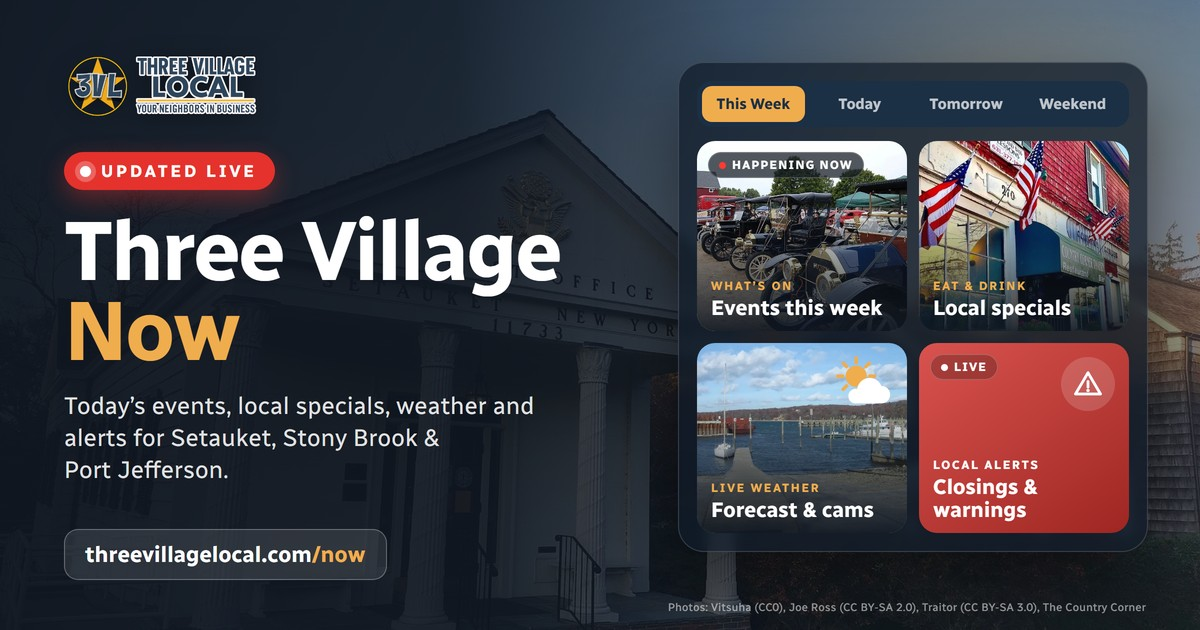
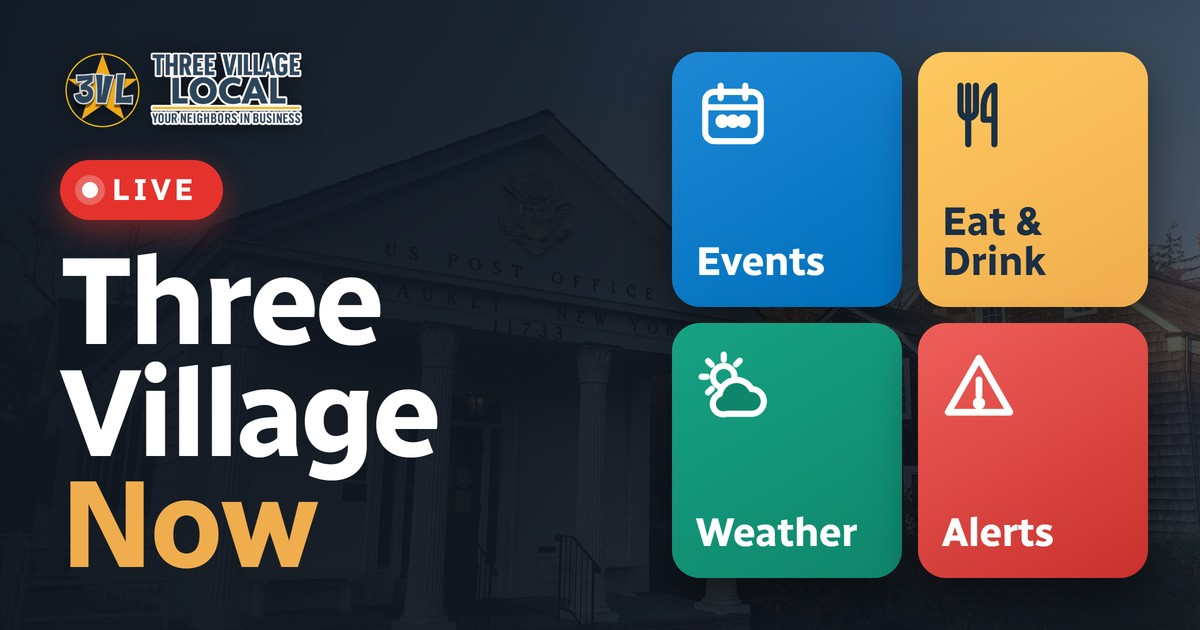
Three Village Now share image v2: big bold tiles, no small text

diff --git a/weekender/og/og.html b/weekender/og/og.html
@@ -1,63 +1,39 @@
 <!doctype html>
 <html><head><meta charset="utf-8">
-<link href="https://fonts.googleapis.com/css2?family=Radio+Canada:wght@400;500;600;700&display=swap" rel="stylesheet">
+<link href="https://fonts.googleapis.com/css2?family=Radio+Canada:wght@600;700&display=swap" rel="stylesheet">
 <style>
 *{box-sizing:border-box;margin:0;padding:0}
 html,body{width:1200px;height:630px;overflow:hidden;background:#0f1a28}
 body{font-family:'Radio Canada',sans-serif;color:#fff}
 .og{position:relative;width:1200px;height:630px;overflow:hidden}
 .bg{position:absolute;inset:0;background:url(hero-po.jpg) center 42%/cover}
-.shade{position:absolute;inset:0;background:linear-gradient(90deg,rgba(15,22,32,.96) 0%,rgba(15,22,32,.9) 38%,rgba(15,22,32,.62) 62%,rgba(15,22,32,.45) 100%)}
-.glow{position:absolute;right:-120px;top:-160px;width:620px;height:620px;border-radius:50%;background:radial-gradient(circle,rgba(240,173,78,.22),transparent 65%)}
-.left{position:absolute;left:64px;top:56px;width:560px}
-.logo{height:62px;display:block;margin-bottom:34px;filter:drop-shadow(0 4px 12px rgba(0,0,0,.35))}
-.pill{display:inline-flex;align-items:center;gap:10px;background:#e5322d;color:#fff;font-weight:700;font-size:17px;letter-spacing:.16em;padding:9px 18px 9px 16px;border-radius:999px;box-shadow:0 8px 24px rgba(229,50,45,.4)}
-.pill i{width:11px;height:11px;border-radius:50%;background:#fff;box-shadow:0 0 0 5px rgba(255,255,255,.25)}
-h1{font-weight:700;font-size:84px;line-height:.95;letter-spacing:-.03em;margin:22px 0 18px}
-h1 span{color:#f0ad4e}
-.dek{font-size:24px;line-height:1.35;color:rgba(255,255,255,.88);max-width:520px}
-.url{position:absolute;left:64px;bottom:50px;display:inline-flex;align-items:center;gap:0;font-size:22px;font-weight:700;color:#fff;background:rgba(255,255,255,.1);border:1.5px solid rgba(255,255,255,.28);padding:11px 20px;border-radius:14px}
-.url b{color:#f0ad4e}
-.dash{position:absolute;right:52px;top:62px;width:470px;padding:18px;border-radius:26px;background:rgba(15,26,40,.72);border:1.5px solid rgba(255,255,255,.16);box-shadow:0 30px 70px rgba(0,0,0,.5);backdrop-filter:blur(6px)}
-.tabs{display:flex;gap:4px;background:#1b2f45;padding:5px;border-radius:14px;margin-bottom:14px}
-.tabs span{flex:1;text-align:center;font-size:15px;font-weight:700;color:rgba(255,255,255,.72);padding:9px 0;border-radius:10px;white-space:nowrap}
-.tabs span.on{background:#f0ad4e;color:#1b2f45}
-.grid{display:grid;grid-template-columns:1fr 1fr;gap:12px}
-.t{position:relative;height:190px;border-radius:18px;overflow:hidden;background:#1b2f45}
-.t .ph{position:absolute;inset:0;background-size:cover;background-position:center}
-.t .sh{position:absolute;inset:0;background:linear-gradient(180deg,rgba(15,22,32,0) 28%,rgba(15,22,32,.92) 100%)}
-.t .lb{position:absolute;left:14px;right:12px;bottom:12px}
-.t .k{font-size:12px;font-weight:700;letter-spacing:.14em;text-transform:uppercase;color:#f0ad4e;margin-bottom:3px}
-.t .n{font-size:21px;font-weight:700;line-height:1.1}
-.t .chip{position:absolute;top:11px;left:11px;display:inline-flex;align-items:center;gap:6px;font-size:12px;font-weight:700;letter-spacing:.1em;padding:5px 10px;border-radius:999px;background:rgba(15,22,32,.72);border:1px solid rgba(255,255,255,.2)}
-.t .chip i{width:7px;height:7px;border-radius:50%;background:#ff3b30}
-.alert{background:linear-gradient(145deg,#d9534f,#9e2622)}
-.alert .ic{position:absolute;right:14px;top:14px;width:54px;height:54px;border-radius:50%;background:rgba(255,255,255,.16);display:flex;align-items:center;justify-content:center}
-.alert .lines{position:absolute;left:14px;right:14px;top:18px}
-.alert .lines div{height:9px;border-radius:5px;background:rgba(255,255,255,.28);margin-bottom:9px}
-.wxbig{position:absolute;right:12px;top:10px}
+.shade{position:absolute;inset:0;background:linear-gradient(90deg,rgba(15,22,32,.97) 0%,rgba(15,22,32,.9) 45%,rgba(15,22,32,.7) 100%)}
+.left{position:absolute;left:60px;top:52px;width:600px}
+.logo{height:78px;display:block;margin-bottom:30px;filter:drop-shadow(0 4px 12px rgba(0,0,0,.4))}
+.pill{display:inline-flex;align-items:center;gap:14px;background:#e5322d;color:#fff;font-weight:700;font-size:30px;letter-spacing:.12em;padding:12px 26px 12px 22px;border-radius:999px;box-shadow:0 10px 30px rgba(229,50,45,.45)}
+.pill i{width:16px;height:16px;border-radius:50%;background:#fff;box-shadow:0 0 0 7px rgba(255,255,255,.25)}
+h1{font-weight:700;font-size:124px;line-height:.9;letter-spacing:-.035em;margin:26px 0 0}
+h1 span{color:#f0ad4e;display:block}
+.grid{position:absolute;right:52px;top:52px;width:476px;display:grid;grid-template-columns:1fr 1fr;gap:16px}
+.t{height:255px;border-radius:28px;padding:26px 24px;display:flex;flex-direction:column;justify-content:space-between;box-shadow:0 20px 44px rgba(0,0,0,.45)}
+.t svg{width:74px;height:74px}
+.t b{font-size:40px;line-height:1;font-weight:700;letter-spacing:-.01em}
+.c1{background:linear-gradient(150deg,#1e88d6,#006fbb)}
+.c2{background:linear-gradient(150deg,#ffc860,#f0ad4e);color:#1b2f45}
+.c3{background:linear-gradient(150deg,#17a283,#0f866c)}
+.c4{background:linear-gradient(150deg,#ef5f5a,#c9302c)}
 </style></head>
 <body><div class="og">
-<div class="bg"></div><div class="shade"></div><div class="glow"></div>
+<div class="bg"></div><div class="shade"></div>
 <div class="left">
   <img class="logo" src="logo.png" alt="">
-  <span class="pill"><i></i>UPDATED LIVE</span>
+  <span class="pill"><i></i>LIVE</span>
   <h1>Three Village <span>Now</span></h1>
-  <p class="dek">Today&rsquo;s events, local specials, weather and alerts for Setauket, <span style="white-space:nowrap">Stony Brook</span> &amp; <span style="white-space:nowrap">Port Jefferson</span>.</p>
 </div>
-<div class="url">threevillagelocal.com<b>/now</b></div>
-<div class="dash">
-  <div class="tabs"><span class="on">This Week</span><span>Today</span><span>Tomorrow</span><span>Weekend</span></div>
-  <div class="grid">
-    <div class="t"><div class="ph" style="background-image:url(r-hill.jpg);background-position:60% center"></div><div class="sh"></div><span class="chip"><i></i>HAPPENING NOW</span><div class="lb"><p class="k">What&rsquo;s on</p><p class="n">Events this week</p></div></div>
-    <div class="t"><div class="ph" style="background-image:url(cc-ext.jpg);background-position:30% center"></div><div class="sh"></div><div class="lb"><p class="k">Eat &amp; Drink</p><p class="n">Local specials</p></div></div>
-    <div class="t"><div class="ph" style="background-image:url(pjharbor.jpg);background-position:40% center"></div><div class="sh"></div>
-      <svg class="wxbig" width="62" height="62" viewBox="0 0 64 64" aria-hidden="true"><circle cx="24" cy="24" r="11" fill="#f0ad4e"/><g stroke="#f0ad4e" stroke-width="3.5" stroke-linecap="round"><path d="M24 5v5M24 38v5M5 24h5M38 24h5M10.5 10.5l3.5 3.5M34 34l3.5 3.5M10.5 37.5l3.5-3.5M34 14l3.5-3.5"/></g><path d="M22 52h28a9 9 0 0 0 0-18 13 13 0 0 0-25 3 7.5 7.5 0 0 0-3 15z" fill="#fff"/></svg>
-      <div class="lb"><p class="k">Live weather</p><p class="n">Forecast &amp; cams</p></div></div>
-    <div class="t alert"><span class="chip" style="background:rgba(0,0,0,.22)"><i style="background:#fff"></i>LIVE</span>
-      <div class="ic"><svg width="30" height="30" viewBox="0 0 24 24" aria-hidden="true"><path d="M12 3 2 20h20L12 3z" fill="none" stroke="#fff" stroke-width="2.2" stroke-linejoin="round"/><path d="M12 10v4.5" stroke="#fff" stroke-width="2.2" stroke-linecap="round"/><circle cx="12" cy="17.2" r="1.3" fill="#fff"/></svg></div>
-      <div class="lb"><p class="k" style="color:#fff">Local alerts</p><p class="n">Closings &amp; warnings</p></div></div>
-  </div>
+<div class="grid">
+  <div class="t c1"><svg viewBox="0 0 24 24" fill="none" stroke="#fff" stroke-width="2" stroke-linecap="round" stroke-linejoin="round"><rect x="3" y="4.5" width="18" height="16" rx="3"/><path d="M3 9.5h18M8 2.5v4M16 2.5v4"/><circle cx="8.5" cy="14" r="1.2" fill="#fff"/><circle cx="12" cy="14" r="1.2" fill="#fff"/><circle cx="15.5" cy="14" r="1.2" fill="#fff"/></svg><b>Events</b></div>
+  <div class="t c2"><svg viewBox="0 0 24 24" fill="none" stroke="#1b2f45" stroke-width="2" stroke-linecap="round" stroke-linejoin="round"><path d="M6 2.5v8a2.5 2.5 0 0 0 5 0v-8M8.5 2.5v19M17 21.5v-19c-2.2 1.2-3.5 3.8-3.5 7v4h3.5"/></svg><b>Eat &amp; Drink</b></div>
+  <div class="t c3"><svg viewBox="0 0 24 24" fill="none" stroke="#fff" stroke-width="2" stroke-linecap="round" stroke-linejoin="round"><circle cx="9" cy="9" r="3.5"/><path d="M9 1.8v1.7M9 14.5v1.7M1.8 9h1.7M3.9 3.9l1.2 1.2M13 5l1.2-1.2M3.9 14.1l1.2-1.2"/><path d="M10 21h8a4 4 0 0 0 0-8 5.5 5.5 0 0 0-10.3 1.6A3.2 3.2 0 0 0 10 21z" fill="#0f866c"/></svg><b>Weather</b></div>
+  <div class="t c4"><svg viewBox="0 0 24 24" fill="none" stroke="#fff" stroke-width="2.2" stroke-linecap="round" stroke-linejoin="round"><path d="M12 3 2 20.5h20L12 3z"/><path d="M12 10v5"/><circle cx="12" cy="17.6" r=".9" fill="#fff"/></svg><b>Alerts</b></div>
 </div>
-<p style="position:absolute;right:54px;bottom:16px;font-size:11px;color:rgba(255,255,255,.55);letter-spacing:.02em">Photos: Vitsuha (CC0), Joe Ross (CC BY-SA 2.0), Traitor (CC BY-SA 3.0), The Country Corner</p>
 </div></body></html>
